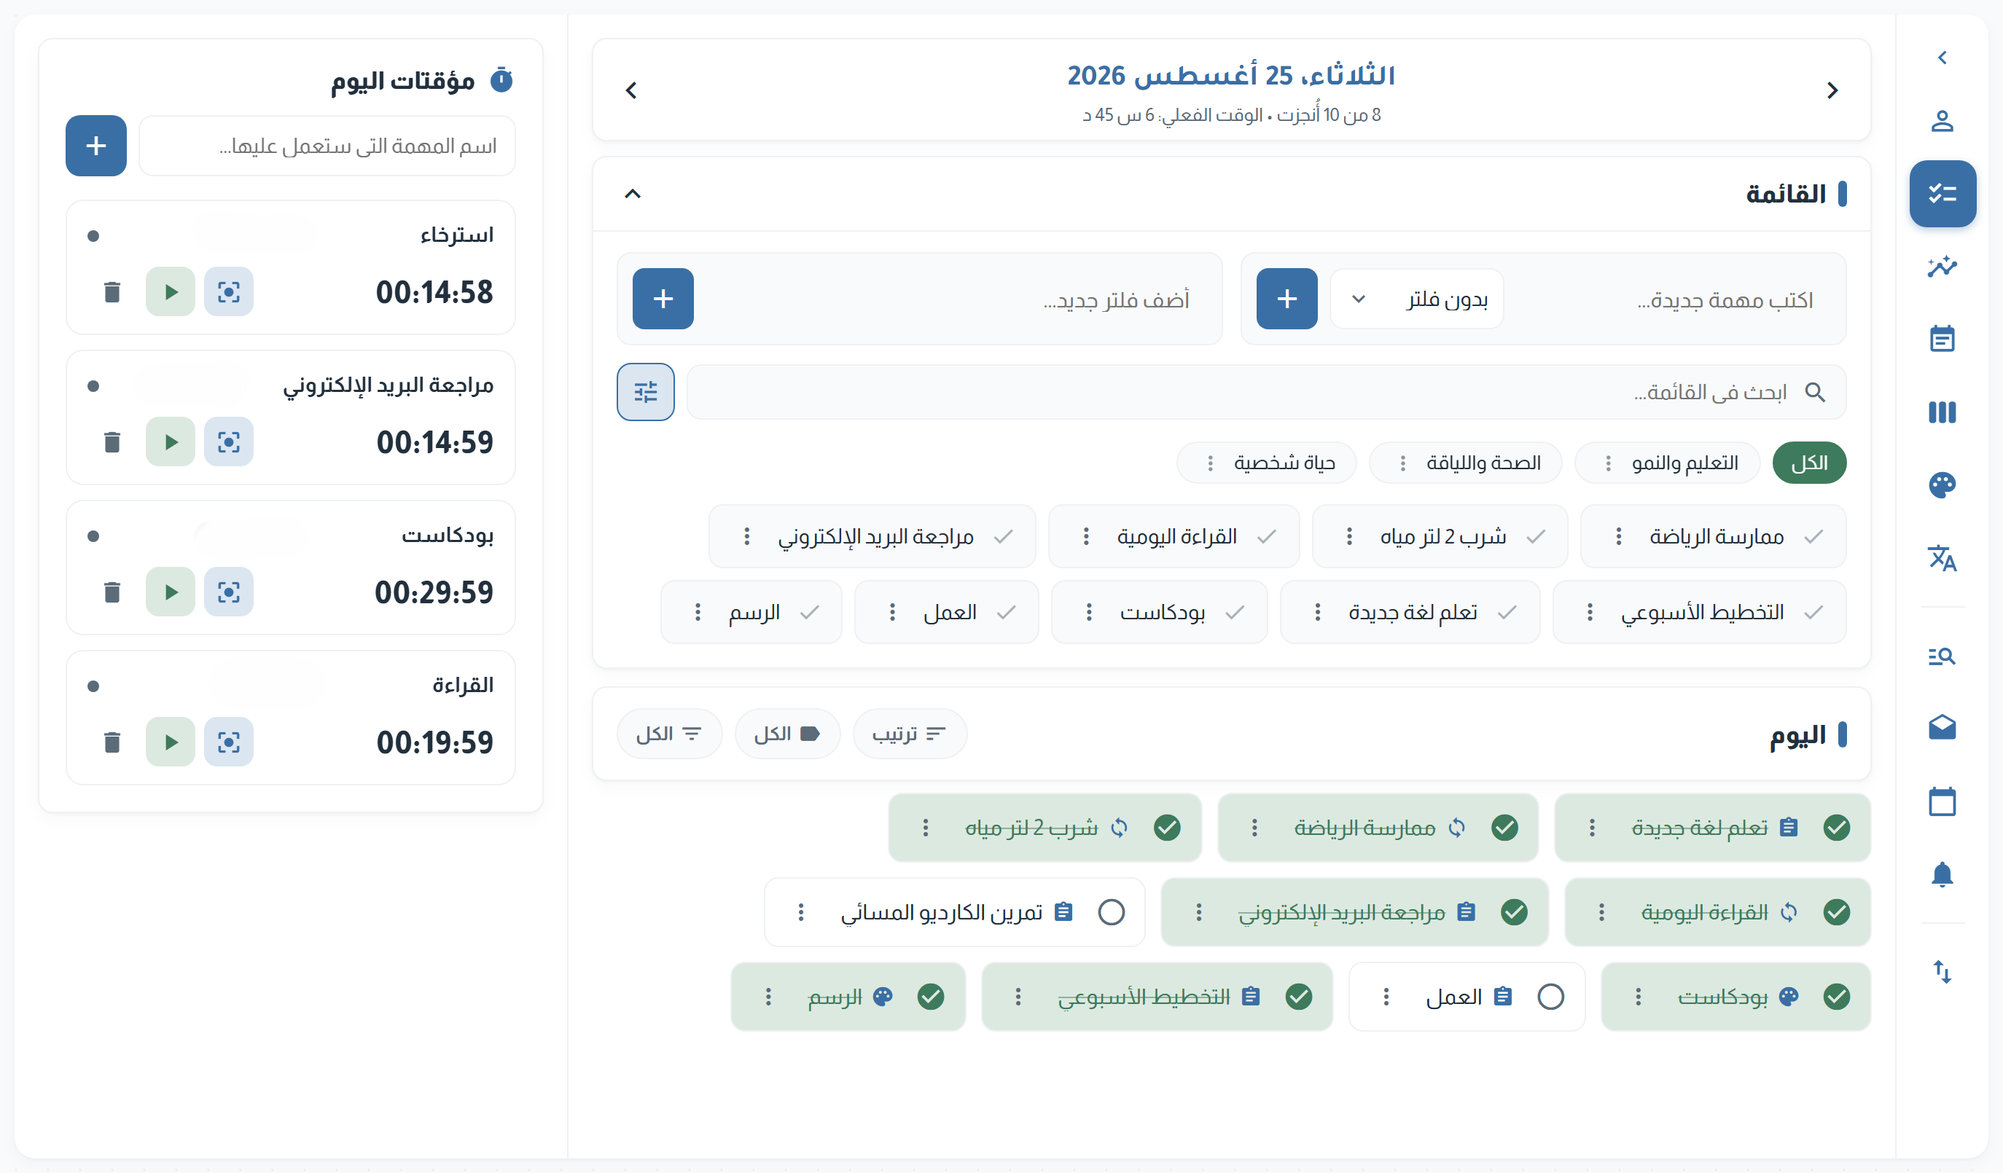
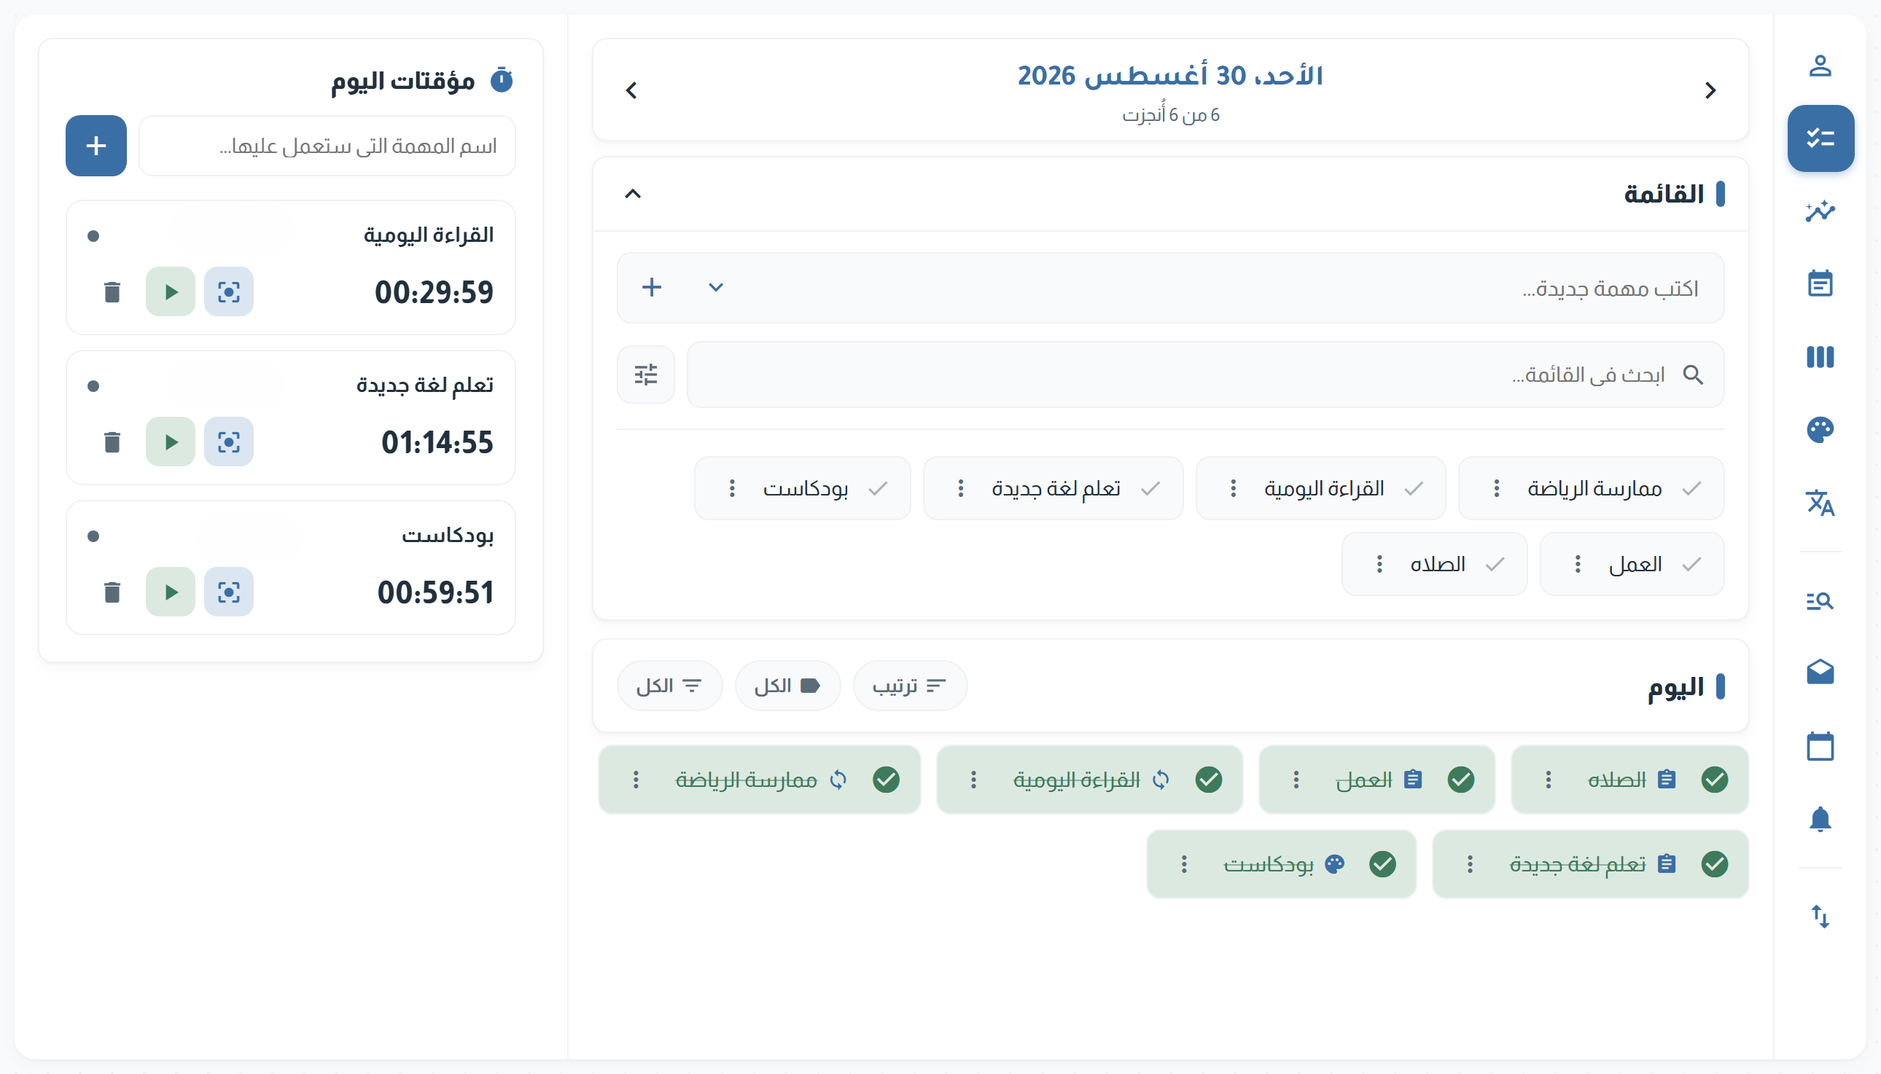
هوية الهبوط بأزرق سماوي #097FE8 (CTA بنص أبيض + تفاصيل مخففة) + تسجيل دخول أسود خالص + خط Cairo بدل Alexandria + جمل التسجيل التلقائي + حاجز وظل تحت لقطة الهيرو + حذف كل الإيموجي من واجهة التطبيق + تحديث أيقونات الماسكلة ولقطة التطبيق

diff --git a/landing.css b/landing.css
@@ -1,26 +1,28 @@
 /* ============================================================
    landing.css — صفحة «نظم»
-   الهوية: أبيض + أسود + أزرق فاتح محايد #3B82F6 كمميّز
+   الهوية: خلفية بيضاء + نصوص سوداء/رمادية، ولون الإبراز الهادئ #3B82F6
+   للـ CTA والتفاصيل الصغرى (بتدرج مخفف 10%–15% للكروت والأيقونات)
    شبكة مسافات 8pt · حركة موحّدة 200ms ease-out
    ============================================================ */
 /* ---------- 1) التوكنز ---------- */
 
 :root {
-  /* البراند — أزرق فاتح محايد + أبيض/أسود */
-  --navy: #1e293b;
-  --navy-2: #334155;
-  --blue: #3b82f6;
-  --blue-deep: #2563eb;
-  --blue-soft: #eff4ff;
-  --blue-glow: rgba(59, 130, 246, 0.28);
+  /* البراند — إبراز أزرق سماوي + أبيض/أسود */
+  --navy: #000000;
+  --navy-2: #111111;
+  --blue: #097fe8;
+  --blue-deep: #086fce;
+  --blue-soft: #e3f2fe;
+  --blue-tint: rgba(9, 127, 232, 0.12);
+  --blue-glow: rgba(9, 127, 232, 0.28);
 
   /* النيوترال — أبيض في كل حاجة */
   --bg: #ffffff;
   --surface: #ffffff;
   --line: #e2e8f0;
   --line-soft: #edf1f6;
-  --ink: #0f172b;
-  --ink-2: #5b6b7e;
+  --ink: #000000;
+  --ink-2: #414d5c;
   --ink-3: #94a3b8;
 
   /* الشريط الداكن */
@@ -45,10 +47,10 @@
   --mk-red: #dc2626;
 
   /* الخطوط */
-  --font-display: "Alexandria", "Segoe UI", Tahoma, sans-serif;
-  --font-body: "IBM Plex Sans Arabic", "Alexandria", "Segoe UI", Tahoma, sans-serif;
+  --font-display: "Cairo", "IBM Plex Sans Arabic", "Segoe UI", Tahoma, sans-serif;
+  --font-body: "IBM Plex Sans Arabic", "Cairo", "Segoe UI", Tahoma, sans-serif;
   --font-mk: "Almarai", "IBM Plex Sans Arabic", Tahoma, sans-serif;
-  --font-latin: "Satoshi", "Alexandria", sans-serif;
+  --font-latin: "Satoshi", Cairo, sans-serif;
 
   /* المسافات — شبكة 8pt */
   --s1: 8px; --s2: 16px; --s3: 24px; --s4: 32px;
@@ -61,7 +63,7 @@
   --shadow-sm: 0 1px 2px rgba(15, 23, 43, 0.05);
   --shadow-md: 0 16px 40px -20px rgba(15, 23, 43, 0.22);
   --shadow-lg: 0 48px 100px -48px rgba(15, 23, 43, 0.35);
-  --shadow-blue: 0 12px 28px -10px rgba(59, 130, 246, 0.42);
+  --shadow-blue: 0 12px 28px -10px rgba(9, 127, 232, 0.42);
 
   /* الحركة */
   --ease: cubic-bezier(0.22, 1, 0.36, 1);
@@ -130,7 +132,7 @@ button { font-family: inherit; cursor: pointer; background: none; border: none; 
 
 .btn-primary { background: var(--blue); color: #fff; box-shadow: var(--shadow-blue); }
 
-.btn-primary:hover { background: var(--blue-deep); }
+.btn-primary:hover { background: #35a0f0; }
 
 .btn-primary:active { transform: scale(0.98); }
 
@@ -271,7 +273,7 @@ body.menu-open { overflow: hidden; }
 }
 /* ---------- 5) الهيرو ---------- */
 
-.hero { position: relative; padding-top: clamp(140px, 16vh, 176px); padding-bottom: clamp(64px, 9vh, 112px); text-align: center; overflow: hidden; }
+.hero { position: relative; padding-top: clamp(140px, 16vh, 176px); padding-bottom: clamp(56px, 8vh, 96px); text-align: center; overflow: hidden; border-bottom: 1px solid var(--line); }
 
 .hero-aura { display: none; }
 
@@ -315,6 +317,19 @@ body.menu-open { overflow: hidden; }
 .hero-media-wrap { position: relative; margin-top: clamp(40px, 6vh, 64px); }
 
 .hero-media { position: relative; }
+/* ظل ملامسة ناعم تحت لقطة الهيرو — إحساس أن الصورة واقفة */
+
+.hero-media::after {
+  content: '';
+  position: absolute;
+  inset-inline: 8%;
+  bottom: -16px;
+  height: 26px;
+  background: radial-gradient(ellipse at center, rgba(15, 23, 43, 0.2) 0%, rgba(15, 23, 43, 0) 70%);
+  filter: blur(4px);
+  z-index: 1;
+  pointer-events: none;
+}
 /* لقطة الهيرو الحقيقية */
 
 .hero-shot {
@@ -370,7 +385,7 @@ body.menu-open { overflow: hidden; }
   min-height: 560px;
   padding: 80px 48px 96px;
   background: #ffffff;
-  border: 1px solid rgba(59, 130, 246, 0.1);
+  border: 1px solid rgba(9, 127, 232, 0.16);
   border-radius: 24px;
   overflow: hidden;
   display: grid;
@@ -382,8 +397,8 @@ body.menu-open { overflow: hidden; }
 .orbital-grid {
   position: absolute; inset: 0;
   background-image:
-    linear-gradient(to right, rgba(59, 130, 246, 0.06) 1px, transparent 1px),
-    linear-gradient(to bottom, rgba(59, 130, 246, 0.06) 1px, transparent 1px);
+    linear-gradient(to right, rgba(0, 0, 0, 0.06) 1px, transparent 1px),
+    linear-gradient(to bottom, rgba(0, 0, 0, 0.06) 1px, transparent 1px);
   background-size: 56px 56px;
   mask-image: radial-gradient(ellipse 85% 70% at 50% 50%, #000 62%, transparent 92%);
   -webkit-mask-image: radial-gradient(ellipse 85% 70% at 50% 50%, #000 62%, transparent 92%);
@@ -404,10 +419,10 @@ body.menu-open { overflow: hidden; }
 .orbital-icon {
   width: 68px; height: 68px;
   display: grid; place-items: center;
-  background: var(--blue-soft);
-  border: 1px solid rgba(59, 130, 246, 0.14);
+  background: var(--blue-tint);
+  border: 1px solid rgba(9, 127, 232, 0.18);
   border-radius: 16px;
-  box-shadow: 0 4px 14px rgba(59, 130, 246, 0.16);
+  box-shadow: 0 4px 14px rgba(9, 127, 232, 0.14);
 }
 .orbital-icon img { width: 40px; height: 40px; object-fit: contain; }
 
@@ -444,7 +459,7 @@ body.menu-open { overflow: hidden; }
   transition: border-color 200ms ease-out;
   cursor: pointer;
 }
-.orbital-tag:hover { border-color: rgba(59, 130, 246, 0.22); }
+.orbital-tag:hover { border-color: rgba(9, 127, 232, 0.22); }
 .orbital-tag .ic { width: 16px; height: 16px; color: var(--blue); flex-shrink: 0; }
 
 /* positions — مبعثرة حول العنوان */
@@ -473,10 +488,10 @@ body.menu-open { overflow: hidden; }
 
 .tb-tab:hover { color: var(--mk-ink); }
 
-.tb-tab.on { background: var(--blue); color: #fff; box-shadow: 0 4px 12px -4px rgba(59, 130, 246, 0.5); }
+.tb-tab.on { background: var(--blue); color: #fff; box-shadow: 0 4px 12px -4px rgba(9, 127, 232, 0.5); }
 /* تبويبات الجدول الحقيقي — منفصلة عن الصورة */
 
-.tb-real { overflow: hidden; background: #fff; max-width: 1000px; margin-inline: auto; border-radius: 10px; }
+.tb-real { overflow: hidden; background: #fff; max-width: 1100px; margin-inline: auto; border-radius: 10px; }
 
 .tb-tabs-overlay { display: flex; justify-content: center; gap: 6px; padding: 16px; background: #fff; border-bottom: 1px solid var(--line); margin-bottom: 8px; }
 
@@ -495,7 +510,7 @@ body.menu-open { overflow: hidden; }
 .tb-shot-img img { width: 100%; height: auto; display: block; }
 
 
-.stats-shot-img { border-radius: 10px; overflow: hidden; border: 1px solid var(--line); box-shadow: var(--shadow-sm); background: #fff; line-height: 0; max-width: 1000px; margin-inline: auto; }
+.stats-shot-img { border-radius: 10px; overflow: hidden; border: 1px solid var(--line); box-shadow: var(--shadow-sm); background: #fff; line-height: 0; max-width: 1100px; margin-inline: auto; }
 
 .stats-shot-img img { width: 100%; height: auto; display: block; }
 
@@ -562,7 +577,7 @@ body.menu-open { overflow: hidden; }
 
 .tib.play { background: #e6f4ea; border-color: #c3e6cb; color: #1e8449; }
 
-.tib.full { background: #eef4fb; border-color: #d0dde8; color: #3a6fa5; }
+.tib.full { background: #f5f5f5; border-color: #d0d0d0; color: #111111; }
 
 .tib.trash { background: #fff; border-color: #e2e8f0; color: #94a3b8; }
 
@@ -676,7 +691,7 @@ body.menu-open { overflow: hidden; }
 
 .price-card:hover { border-color: var(--ink-3); }
 
-.price-card.featured { border-color: var(--blue); }
+.price-card.featured { border-color: var(--blue); background: var(--blue-tint); }
 
 .price-card.featured:hover { border-color: var(--blue-deep); }
 

diff --git a/app/js/i18n.js b/app/js/i18n.js
@@ -232,13 +232,13 @@ ar: {
   'day.prev': 'اليوم السابق',
   'day.next': 'اليوم التالي',
   'day.go_today': 'العودة إلى اليوم',
-  'day.empty_today': 'يومك لا يزال فارغًا — ابدأ بشكل إيجابي ☀',
+  'day.empty_today': 'يومك لا يزال فارغًا — ابدأ بشكل إيجابي',
   'day.empty_past': 'لا توجد مهام مسجلة لهذا اليوم',
   'day.empty_hint_today': 'اكتب مهمة في الحقل أعلاه، أو افتح القائمة واختر منها.',
   'day.empty_hint_past': 'لا توجد مهام حاليًا — يمكنك اختيار يوم آخر من التقويم.',
   'day.empty_type': 'لا توجد {type}',
   'day.empty_done': 'لم تُنجز أي مهمة بعد',
-  'day.empty_pending': 'اكتملت جميع المهام 🎉',
+  'day.empty_pending': 'اكتملت جميع المهام',
   'day.empty_type_hint': 'أضف مهمة من القائمة أو غيّر الفلتر.',
   'day.empty_done_hint': 'عند إنجازك أول مهمة ستظهر هنا.',
   'day.empty_pending_hint': 'استمتع بوقتك — تم إنجاز يومك بنجاح.',
@@ -250,7 +250,7 @@ ar: {
   'day.count_done': '{done} من {total} أُنجزت',
   'day.count_done_one': '1 من {total} أُنجزت',
   'day.empty_done_title': 'لم تُنجز أي مهمة بعد',
-  'day.empty_all_done_title': 'اكتملت جميع المهام 🎉',
+  'day.empty_all_done_title': 'اكتملت جميع المهام',
   'day.empty_type_all': 'لا توجد {type}',
   'day.of_streak': 'من الإنجاز',
 
@@ -438,7 +438,7 @@ ar: {
 
   // Schedule
   'schedule.empty_title': 'لا توجد مهام في هذا اليوم بعد',
-  'schedule.empty_all_done': 'كل المهام متجدولة 🎉',
+  'schedule.empty_all_done': 'كل المهام متجدولة',
   'schedule.unscheduled': 'مهام غير مجدولة',
   'schedule.unscheduled_recurring': 'مهام متكررة غير مجدولة',
   'schedule.more': 'المزيد ({count})',
@@ -537,15 +537,15 @@ ar: {
   'notif.time': 'الوقت',
   'notif.morning_body': 'لديك {total} مهمة/مهام على جدول اليوم، هيا نبدأ!',
   'notif.morning_empty': 'لا توجد مهام مضافة اليوم بعد، افتح القائمة واختر ما تريد إنجازه.',
-  'notif.morning_title': 'صباح الخير ☀',
+  'notif.morning_title': 'صباح الخير',
   'notif.morning_time_title': 'وقت تنبيه الصباح',
-  'notif.evening_streak': 'سلسلتك: {streak} يوم متتالي 🔥',
+  'notif.evening_streak': 'سلسلتك: {streak} يوم متتالي',
   'notif.evening_start': 'هيا سجّل إنجازك اليوم!',
   'notif.evening_done': 'أنجزت {done} من أصل {total} مهمة اليوم.',
   'notif.evening_review': 'وقت مراجعة يومك — افتح التطبيق وسجّل ما أنجزته.',
-  'notif.evening_title': 'وقت المراجعة 🌙',
+  'notif.evening_title': 'وقت المراجعة',
   'notif.evening_time_title': 'وقت تنبيه المساء',
-  'notif.reminder_title': 'تذكير ⏰',
+  'notif.reminder_title': 'تذكير',
   'notif.reminder_body': 'حان وقت "{name}"',
   'notif.browser_unsupported': 'هذا المتصفح لا يدعم التنبيهات.',
   'notif.browser_blocked': 'التنبيهات محظورة من إعدادات المتصفح — فعّلها من هناك الأول.',

diff --git a/app/js/stats.js b/app/js/stats.js
@@ -371,20 +371,20 @@ function exportStatsPDF(mode){
 
   // دقة التقدير
   const estBlock = s.estimationAccuracyPct !== null
-    ? `<div class="card"><div class="card-title">📐 ${t('pdf.accuracy_title')}</div><p class="big">${s.estimationAccuracyPct}%</p><p class="sub">${t(isDaily ? 'pdf.accuracy_subtitle_day' : 'pdf.accuracy_subtitle')}</p></div>`
+    ? `<div class="card"><div class="card-title">${t('pdf.accuracy_title')}</div><p class="big">${s.estimationAccuracyPct}%</p><p class="sub">${t(isDaily ? 'pdf.accuracy_subtitle_day' : 'pdf.accuracy_subtitle')}</p></div>`
     : '';
 
   // كارت التمييز: أفضل يوم في التقرير الأسبوعي، وأكثر مهمة وقتًا في اليومي
   let highlightCard = '';
   if(!isDaily && s.bestDay){
     highlightCard = `<div class="card">
-      <div class="card-title">🏆 ${t('pdf.best_day')}</div>
+      <div class="card-title">${t('pdf.best_day')}</div>
       <div class="big" style="font-size:1.1rem">${fmtDay(s.bestDay)}</div>
       <div class="sub">${formatHM(s.bestDayMs)} ${t('pdf.time')}</div>
     </div>`;
   } else if(isDaily && s.longestTask){
     highlightCard = `<div class="card">
-      <div class="card-title">🏆 ${t('stats.task_time_today')}</div>
+      <div class="card-title">${t('stats.task_time_today')}</div>
       <div class="big" style="font-size:1.1rem">${escapeHtml(s.longestTask.name)}</div>
       <div class="sub">${formatHM(s.longestTask.ms)} ${t('pdf.time')}</div>
     </div>`;
@@ -423,26 +423,26 @@ tr:last-child td { border-bottom: none; }
 </style>
 </head>
 <body>
-<h1>📋 ${reportTitle}</h1>
+<h1>${reportTitle}</h1>
 <div class="sub-header">${t('pdf.period')} ${periodLabel} &nbsp;|&nbsp; ${t('pdf.export_date')} ${printDate}</div>
 
 <div class="grid">
 <div class="card">
-  <div class="card-title">⏱ ${t('pdf.total_time')}</div>
+  <div class="card-title">${t('pdf.total_time')}</div>
   <div class="big">${formatHM(s.totalMs)}</div>
 </div>
 <div class="card">
-  <div class="card-title">✅ ${t('pdf.tasks_done')}</div>
+  <div class="card-title">${t('pdf.tasks_done')}</div>
   <div class="big">${s.doneCount}<span style="font-size:1rem;color:#aaa"> / ${s.totalTaskCount}</span></div>
 </div>
 <div class="card">
-  <div class="card-title">🔥 ${t('pdf.day_streak')}</div>
+  <div class="card-title">${t('pdf.day_streak')}</div>
   <div class="big">${s.streak}</div>
   <div class="sub">${t('pdf.day_streak_count')}</div>
 </div>
 ${highlightCard}
 ${s.missedCount > 0 ? `<div class="card">
-  <div class="card-title">⚠ ${t('pdf.missed')}</div>
+  <div class="card-title">${t('pdf.missed')}</div>
   <div class="big" style="color:#c0392b">${s.missedCount}</div>
   <div class="sub">${t('pdf.missed_desc')}</div>
 </div>` : ''}
@@ -451,7 +451,7 @@ ${estBlock}
 
 <div class="grid">
 <div class="card full">
-  <div class="card-title" style="margin-bottom:12px">📅 ${t(isDaily ? 'pdf.summary_title_day' : 'pdf.summary_title')}</div>
+  <div class="card-title" style="margin-bottom:12px">${t(isDaily ? 'pdf.summary_title_day' : 'pdf.summary_title')}</div>
   <table>
     <thead><tr><th>${t('pdf.day_header')}</th><th style="text-align:center">${t('pdf.done_header')}</th><th style="text-align:center">${t('pdf.time_header')}</th><th>${t('pdf.progress_header')}</th></tr></thead>
     <tbody>${daysTableRows}</tbody>

diff --git a/index.html b/index.html
@@ -55,7 +55,7 @@
     <link rel="preconnect" href="https://fonts.gstatic.com" crossorigin />
     <link rel="preconnect" href="https://api.fontshare.com" crossorigin />
     <link
-      href="https://fonts.googleapis.com/css2?family=Alexandria:wght@500;600;700;800&family=IBM+Plex+Sans+Arabic:wght@400;500;700&display=swap"
+      href="https://fonts.googleapis.com/css2?family=Cairo:wght@500;600;700;800&family=IBM+Plex+Sans+Arabic:wght@400;500;700&display=swap"
       rel="stylesheet"
     />
     <link href="https://api.fontshare.com/v2/css?f[]=satoshi@700,900&display=swap" rel="stylesheet" />
@@ -290,12 +290,12 @@
 <h2>من الخطة إلى عمل حقيقي</h2>
             <p class="sec-lead">
               شغّل مؤقّتًا على مهمتك — مفتوحًا أو بمدّة محدّدة — وادخل وضع التركيز،
-              وسجّل وقتك الفعلي يدويًا ليغذّي إحصائياتك.
+              وسيُسجَّل وقتك الفعلي تلقائيًا ليغذّي إحصائياتك.
             </p>
             <ul class="check-points">
               <li><svg class="ic"><use href="#i-check-circle"/></svg>مؤقّت مفتوح أو مؤقّت بمدّة محدّدة لكل مهمة</li>
               <li><svg class="ic"><use href="#i-check-circle"/></svg>وضع تركيز بشاشةٍ واحدة بلا تشتيت</li>
-              <li><svg class="ic"><use href="#i-check-circle"/></svg>الوقت الفعلي يُسجَّل يدويًا</li>
+              <li><svg class="ic"><use href="#i-check-circle"/></svg>الوقت الفعلي يُسجَّل تلقائيًا</li>
             </ul>
           </div>
 

diff --git a/app/css/modals.css b/app/css/modals.css
@@ -3,21 +3,24 @@
    (المظهر/الحساب) بيفضل بألوان الـ pen الطينية زي ما هو */
 #accountOverlay.is-gate .account-status .material-icons,
 #accountOverlay.is-gate .account-section-title .material-icons {
-  color: var(--ink);
+  color: #000;
 }
 #accountOverlay.is-gate .account-input:focus {
-  border-color: var(--ink);
+  border-color: #000;
 }
 #accountOverlay.is-gate .account-primary-btn {
-  background: var(--ink);
+  background: #000;
   color: #fff;
 }
 #accountOverlay.is-gate .account-primary-btn:hover {
-  background: #000;
+  background: #111;
 }
 #accountOverlay.is-gate .account-switch-line button {
-  color: var(--ink);
-  text-decoration-color: var(--ink);
+  color: #000;
+  text-decoration-color: #000;
+}
+#accountOverlay.is-gate .modal-header h2 {
+  color: #000;
 }
 #accountOverlay.is-gate .account-google-btn:hover {
   background: var(--paper);

diff --git a/app/js/icalExport.js b/app/js/icalExport.js
@@ -70,7 +70,7 @@ function buildEventLines(dateStr, task){
     lines.push(`DTEND;VALUE=DATE:${dateOnlyStamp(addDays(dateStr, 1))}`);
   }
 
-  const summaryPrefix = task.done ? '✓ ' : '';
+  const summaryPrefix = task.done ? '[x] ' : '';
   lines.push(foldLine(`SUMMARY:${summaryPrefix}${escapeICSText(task.name)}`));
   if(task.done){
     // المهام المنجزة بتتصدر كـ COMPLETED (مع نسبة 100%) بدل CONFIRMED —

diff --git a/app/sw.js b/app/sw.js
@@ -5,7 +5,7 @@
 // رقم الإصدار (CACHE_VERSION) بيتغيّر تلقائيًا مع أي تغيير في المحتوى.
 // ============================================================
 
-const CACHE_VERSION = 'v8e6e675a7c';
+const CACHE_VERSION = 'v84a330095f';
 const CACHE_NAME = 'daily-tasks-shell-' + CACHE_VERSION;
 
 const PRECACHE_URLS = [
